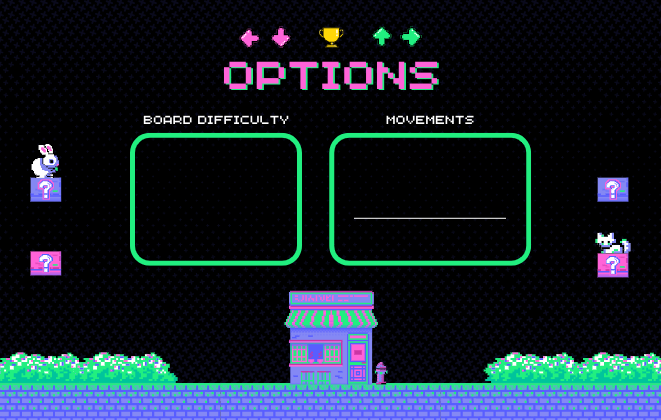
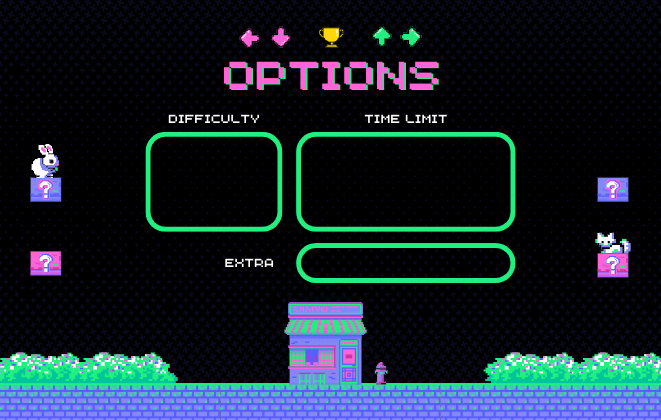
itemstatechanged for time restrict in options frame

Changed region(s): [[0.1815, 0.2476, 0.8169, 0.9286]]

diff --git a/src/OptionsPage.java b/src/OptionsPage.java
@@ -39,8 +39,9 @@ public class OptionsPage extends javax.swing.JFrame {
 
         btGrpRestrict = new javax.swing.ButtonGroup();
         difficulty = new javax.swing.ButtonGroup();
-        MovementRestrict = new javax.swing.JRadioButton();
-        MovementFree = new javax.swing.JRadioButton();
+        timeGrp = new javax.swing.ButtonGroup();
+        yesTime = new javax.swing.JRadioButton();
+        noTime = new javax.swing.JRadioButton();
         BombTilesEnable = new javax.swing.JCheckBox();
         jPanel2 = new javax.swing.JPanel();
         Easy = new javax.swing.JRadioButton();
@@ -48,26 +49,39 @@ public class OptionsPage extends javax.swing.JFrame {
         Difficult = new javax.swing.JRadioButton();
         ok = new javax.swing.JButton();
         exit1 = new javax.swing.JButton();
+        oneMin = new javax.swing.JRadioButton();
+        threeMin = new javax.swing.JRadioButton();
+        fiveMin = new javax.swing.JRadioButton();
         jDesktopPane1 = new javax.swing.JDesktopPane();
-        MovementLabel = new javax.swing.JLabel();
+        MovementLabel2 = new javax.swing.JLabel();
         MovementLabel1 = new javax.swing.JLabel();
         jLabel2 = new javax.swing.JLabel();
 
         setDefaultCloseOperation(javax.swing.WindowConstants.EXIT_ON_CLOSE);
         getContentPane().setLayout(new org.netbeans.lib.awtextra.AbsoluteLayout());
 
-        btGrpRestrict.add(MovementRestrict);
-        MovementRestrict.setFont(new java.awt.Font("Segoe UI", 0, 13)); // NOI18N
-        MovementRestrict.setForeground(new java.awt.Color(255, 255, 255));
-        MovementRestrict.setText("Yes");
-        getContentPane().add(MovementRestrict, new org.netbeans.lib.awtextra.AbsoluteConstraints(350, 190, -1, -1));
+        btGrpRestrict.add(yesTime);
+        yesTime.setFont(new java.awt.Font("Segoe UI", 0, 13)); // NOI18N
+        yesTime.setForeground(new java.awt.Color(255, 255, 255));
+        yesTime.setText("Yes");
+        yesTime.addItemListener(new java.awt.event.ItemListener() {
+            public void itemStateChanged(java.awt.event.ItemEvent evt) {
+                timeRestrictItemStateChanged(evt);
+            }
+        });
+        yesTime.addActionListener(new java.awt.event.ActionListener() {
+            public void actionPerformed(java.awt.event.ActionEvent evt) {
+                yesTimeActionPerformed(evt);
+            }
+        });
+        getContentPane().add(yesTime, new org.netbeans.lib.awtextra.AbsoluteConstraints(400, 150, -1, -1));
 
-        btGrpRestrict.add(MovementFree);
-        MovementFree.setFont(new java.awt.Font("Segoe UI", 0, 13)); // NOI18N
-        MovementFree.setForeground(new java.awt.Color(255, 255, 255));
-        MovementFree.setSelected(true);
-        MovementFree.setText("No");
-        getContentPane().add(MovementFree, new org.netbeans.lib.awtextra.AbsoluteConstraints(400, 190, 51, -1));
+        btGrpRestrict.add(noTime);
+        noTime.setFont(new java.awt.Font("Segoe UI", 0, 13)); // NOI18N
+        noTime.setForeground(new java.awt.Color(255, 255, 255));
+        noTime.setSelected(true);
+        noTime.setText("No");
+        getContentPane().add(noTime, new org.netbeans.lib.awtextra.AbsoluteConstraints(450, 150, 51, -1));
 
         BombTilesEnable.setFont(new java.awt.Font("Segoe UI", 0, 13)); // NOI18N
         BombTilesEnable.setForeground(new java.awt.Color(255, 255, 255));
@@ -77,7 +91,7 @@ public class OptionsPage extends javax.swing.JFrame {
                 BombTilesEnableActionPerformed(evt);
             }
         });
-        getContentPane().add(BombTilesEnable, new org.netbeans.lib.awtextra.AbsoluteConstraints(350, 230, -1, -1));
+        getContentPane().add(BombTilesEnable, new org.netbeans.lib.awtextra.AbsoluteConstraints(320, 240, -1, 50));
 
         jPanel2.setBackground(new java.awt.Color(0, 0, 0));
         jPanel2.setForeground(new java.awt.Color(255, 255, 255));
@@ -128,12 +142,12 @@ public class OptionsPage extends javax.swing.JFrame {
                     .addComponent(Easy)
                     .addComponent(Difficult)
                     .addComponent(Average))
-                .addContainerGap(53, Short.MAX_VALUE))
+                .addContainerGap(19, Short.MAX_VALUE))
         );
         jPanel2Layout.setVerticalGroup(
             jPanel2Layout.createParallelGroup(javax.swing.GroupLayout.Alignment.LEADING)
             .addGroup(jPanel2Layout.createSequentialGroup()
-                .addContainerGap(18, Short.MAX_VALUE)
+                .addContainerGap(javax.swing.GroupLayout.DEFAULT_SIZE, Short.MAX_VALUE)
                 .addComponent(Easy)
                 .addPreferredGap(javax.swing.LayoutStyle.ComponentPlacement.RELATED)
                 .addComponent(Average)
@@ -141,7 +155,7 @@ public class OptionsPage extends javax.swing.JFrame {
                 .addComponent(Difficult))
         );
 
-        getContentPane().add(jPanel2, new org.netbeans.lib.awtextra.AbsoluteConstraints(150, 150, 130, 90));
+        getContentPane().add(jPanel2, new org.netbeans.lib.awtextra.AbsoluteConstraints(160, 140, 100, -1));
 
         ok.setBackground(new java.awt.Color(0, 255, 153));
         ok.setFont(new java.awt.Font("Arial Black", 0, 13)); // NOI18N
@@ -169,19 +183,49 @@ public class OptionsPage extends javax.swing.JFrame {
             }
         });
         getContentPane().add(exit1, new org.netbeans.lib.awtextra.AbsoluteConstraints(440, 310, 100, 30));
+
+        timeGrp.add(oneMin);
+        oneMin.setForeground(new java.awt.Color(255, 255, 255));
+        oneMin.setText("1 min");
+        oneMin.addActionListener(new java.awt.event.ActionListener() {
+            public void actionPerformed(java.awt.event.ActionEvent evt) {
+                oneMinActionPerformed(evt);
+            }
+        });
+        getContentPane().add(oneMin, new org.netbeans.lib.awtextra.AbsoluteConstraints(310, 200, -1, -1));
+
+        timeGrp.add(threeMin);
+        threeMin.setForeground(new java.awt.Color(255, 255, 255));
+        threeMin.setText("3 mins");
+        threeMin.addActionListener(new java.awt.event.ActionListener() {
+            public void actionPerformed(java.awt.event.ActionEvent evt) {
+                threeMinActionPerformed(evt);
+            }
+        });
+        getContentPane().add(threeMin, new org.netbeans.lib.awtextra.AbsoluteConstraints(370, 200, -1, -1));
+
+        timeGrp.add(fiveMin);
+        fiveMin.setForeground(new java.awt.Color(255, 255, 255));
+        fiveMin.setText("5 mins");
+        fiveMin.addActionListener(new java.awt.event.ActionListener() {
+            public void actionPerformed(java.awt.event.ActionEvent evt) {
+                fiveMinActionPerformed(evt);
+            }
+        });
+        getContentPane().add(fiveMin, new org.netbeans.lib.awtextra.AbsoluteConstraints(440, 200, -1, -1));
         getContentPane().add(jDesktopPane1, new org.netbeans.lib.awtextra.AbsoluteConstraints(530, 260, -1, -1));
 
-        MovementLabel.setFont(new java.awt.Font("Segoe UI", 0, 13)); // NOI18N
-        MovementLabel.setForeground(new java.awt.Color(255, 255, 255));
-        MovementLabel.setText("movements?");
-        MovementLabel.setHorizontalTextPosition(javax.swing.SwingConstants.LEADING);
-        getContentPane().add(MovementLabel, new org.netbeans.lib.awtextra.AbsoluteConstraints(350, 170, 160, 20));
+        MovementLabel2.setFont(new java.awt.Font("Segoe UI", 0, 13)); // NOI18N
+        MovementLabel2.setForeground(new java.awt.Color(255, 255, 255));
+        MovementLabel2.setText("How long?");
+        MovementLabel2.setHorizontalTextPosition(javax.swing.SwingConstants.LEADING);
+        getContentPane().add(MovementLabel2, new org.netbeans.lib.awtextra.AbsoluteConstraints(310, 160, 160, 50));
 
         MovementLabel1.setFont(new java.awt.Font("Segoe UI", 0, 13)); // NOI18N
         MovementLabel1.setForeground(new java.awt.Color(255, 255, 255));
-        MovementLabel1.setText("Restrict number of ");
+        MovementLabel1.setText("Restrict time?");
         MovementLabel1.setHorizontalTextPosition(javax.swing.SwingConstants.LEADING);
-        getContentPane().add(MovementLabel1, new org.netbeans.lib.awtextra.AbsoluteConstraints(350, 150, 160, 20));
+        getContentPane().add(MovementLabel1, new org.netbeans.lib.awtextra.AbsoluteConstraints(310, 150, 160, 20));
 
         jLabel2.setIcon(new javax.swing.ImageIcon(getClass().getResource("/optBG.png"))); // NOI18N
         getContentPane().add(jLabel2, new org.netbeans.lib.awtextra.AbsoluteConstraints(0, 0, -1, 420));
@@ -244,6 +288,35 @@ public class OptionsPage extends javax.swing.JFrame {
         // TODO add your handling code here:
 
     }//GEN-LAST:event_okMouseClicked
+
+    private void oneMinActionPerformed(java.awt.event.ActionEvent evt) {//GEN-FIRST:event_oneMinActionPerformed
+        // TODO add your handling code here:
+    }//GEN-LAST:event_oneMinActionPerformed
+
+    private void threeMinActionPerformed(java.awt.event.ActionEvent evt) {//GEN-FIRST:event_threeMinActionPerformed
+        // TODO add your handling code here:
+    }//GEN-LAST:event_threeMinActionPerformed
+
+    private void fiveMinActionPerformed(java.awt.event.ActionEvent evt) {//GEN-FIRST:event_fiveMinActionPerformed
+        // TODO add your handling code here:
+    }//GEN-LAST:event_fiveMinActionPerformed
+
+    private void yesTimeActionPerformed(java.awt.event.ActionEvent evt) {//GEN-FIRST:event_yesTimeActionPerformed
+        // TODO add your handling code here:
+    }//GEN-LAST:event_yesTimeActionPerformed
+
+    private void timeRestrictItemStateChanged(java.awt.event.ItemEvent evt) {//GEN-FIRST:event_timeRestrictItemStateChanged
+        int timeRestrictChoice = evt.getStateChange();
+        
+        if (evt.getSource() == noTime) {
+            if (timeRestrictChoice == 1) {
+                oneMin.setEnabled(false);
+                threeMin.setEnabled(false);
+                fiveMin.setEnabled(false);
+            }
+        }
+       
+    }//GEN-LAST:event_timeRestrictItemStateChanged
     
     
     /**
@@ -291,16 +364,20 @@ public class OptionsPage extends javax.swing.JFrame {
     private javax.swing.JCheckBox BombTilesEnable;
     private javax.swing.JRadioButton Difficult;
     private javax.swing.JRadioButton Easy;
-    private javax.swing.JRadioButton MovementFree;
-    private javax.swing.JLabel MovementLabel;
     private javax.swing.JLabel MovementLabel1;
-    private javax.swing.JRadioButton MovementRestrict;
+    private javax.swing.JLabel MovementLabel2;
     private javax.swing.ButtonGroup btGrpRestrict;
     private javax.swing.ButtonGroup difficulty;
     private javax.swing.JButton exit1;
+    private javax.swing.JRadioButton fiveMin;
     private javax.swing.JDesktopPane jDesktopPane1;
     private javax.swing.JLabel jLabel2;
     private javax.swing.JPanel jPanel2;
+    private javax.swing.JRadioButton noTime;
     private javax.swing.JButton ok;
+    private javax.swing.JRadioButton oneMin;
+    private javax.swing.JRadioButton threeMin;
+    private javax.swing.ButtonGroup timeGrp;
+    private javax.swing.JRadioButton yesTime;
     // End of variables declaration//GEN-END:variables
 }

diff --git a/src/MainGame.java b/src/MainGame.java
@@ -259,7 +259,6 @@ public class MainGame extends javax.swing.JFrame implements MouseListener{
 
         MainGame = new javax.swing.JPanel();
         Stats = new javax.swing.JPanel();
-        NumClickLabel = new javax.swing.JLabel();
         NumCorrMatchLabel = new javax.swing.JLabel();
         NumIncorrMatchLabel = new javax.swing.JLabel();
         NumCorrMatch = new javax.swing.JLabel();
@@ -268,6 +267,8 @@ public class MainGame extends javax.swing.JFrame implements MouseListener{
         Time = new javax.swing.JLabel();
         endGame = new javax.swing.JButton();
         TimeLabel = new javax.swing.JLabel();
+        NumClickLabel = new javax.swing.JLabel();
+        jLabel1 = new javax.swing.JLabel();
         jMenuBar1 = new javax.swing.JMenuBar();
         Game = new javax.swing.JMenu();
         NewGame = new javax.swing.JMenuItem();
@@ -283,10 +284,6 @@ public class MainGame extends javax.swing.JFrame implements MouseListener{
         MainGame.setForeground(new java.awt.Color(255, 102, 102));
         MainGame.setLayout(new java.awt.GridLayout(5, 5));
         getContentPane().add(MainGame, new org.netbeans.lib.awtextra.AbsoluteConstraints(0, 0, 670, 510));
-
-        NumClickLabel.setHorizontalAlignment(javax.swing.SwingConstants.CENTER);
-        NumClickLabel.setText("Number of Attempted Matches:");
-        NumClickLabel.setHorizontalTextPosition(javax.swing.SwingConstants.CENTER);
 
         NumCorrMatchLabel.setHorizontalAlignment(javax.swing.SwingConstants.CENTER);
         NumCorrMatchLabel.setText("Number of Correct Matches:");
@@ -327,14 +324,13 @@ public class MainGame extends javax.swing.JFrame implements MouseListener{
         StatsLayout.setHorizontalGroup(
             StatsLayout.createParallelGroup(javax.swing.GroupLayout.Alignment.LEADING)
             .addGroup(StatsLayout.createSequentialGroup()
-                .addGap(31, 31, 31)
+                .addGap(36, 36, 36)
                 .addGroup(StatsLayout.createParallelGroup(javax.swing.GroupLayout.Alignment.CENTER)
                     .addComponent(NumCorrMatchLabel)
                     .addComponent(NumCorrMatch, javax.swing.GroupLayout.PREFERRED_SIZE, 62, javax.swing.GroupLayout.PREFERRED_SIZE)
                     .addComponent(NumIncorrMatchLabel)
                     .addComponent(NumIncorrMatch, javax.swing.GroupLayout.PREFERRED_SIZE, 55, javax.swing.GroupLayout.PREFERRED_SIZE)
                     .addComponent(endGame, javax.swing.GroupLayout.PREFERRED_SIZE, 140, javax.swing.GroupLayout.PREFERRED_SIZE)
-                    .addComponent(NumClickLabel)
                     .addComponent(NumClick, javax.swing.GroupLayout.PREFERRED_SIZE, 50, javax.swing.GroupLayout.PREFERRED_SIZE)
                     .addComponent(Time, javax.swing.GroupLayout.PREFERRED_SIZE, 72, javax.swing.GroupLayout.PREFERRED_SIZE))
                 .addContainerGap(88, Short.MAX_VALUE))
@@ -343,9 +339,7 @@ public class MainGame extends javax.swing.JFrame implements MouseListener{
             StatsLayout.createParallelGroup(javax.swing.GroupLayout.Alignment.LEADING)
             .addGroup(StatsLayout.createSequentialGroup()
                 .addComponent(Time, javax.swing.GroupLayout.PREFERRED_SIZE, 36, javax.swing.GroupLayout.PREFERRED_SIZE)
-                .addGap(24, 24, 24)
-                .addComponent(NumClickLabel)
-                .addPreferredGap(javax.swing.LayoutStyle.ComponentPlacement.RELATED)
+                .addGap(47, 47, 47)
                 .addComponent(NumClick, javax.swing.GroupLayout.PREFERRED_SIZE, 36, javax.swing.GroupLayout.PREFERRED_SIZE)
                 .addGap(18, 18, 18)
                 .addComponent(NumCorrMatchLabel)
@@ -366,6 +360,14 @@ public class MainGame extends javax.swing.JFrame implements MouseListener{
         TimeLabel.setText("Elapsed Time:");
         TimeLabel.setHorizontalTextPosition(javax.swing.SwingConstants.CENTER);
         getContentPane().add(TimeLabel, new org.netbeans.lib.awtextra.AbsoluteConstraints(760, 30, -1, -1));
+
+        NumClickLabel.setHorizontalAlignment(javax.swing.SwingConstants.CENTER);
+        NumClickLabel.setText("Number of Attempted Matches:");
+        NumClickLabel.setHorizontalTextPosition(javax.swing.SwingConstants.CENTER);
+        getContentPane().add(NumClickLabel, new org.netbeans.lib.awtextra.AbsoluteConstraints(0, 0, -1, -1));
+
+        jLabel1.setIcon(new javax.swing.ImageIcon(getClass().getResource("/mainBG.png"))); // NOI18N
+        getContentPane().add(jLabel1, new org.netbeans.lib.awtextra.AbsoluteConstraints(0, 0, 920, 510));
 
         Game.setText("Game");
 
@@ -503,6 +505,7 @@ public class MainGame extends javax.swing.JFrame implements MouseListener{
     private javax.swing.JLabel Time;
     private javax.swing.JLabel TimeLabel;
     private javax.swing.JButton endGame;
+    private javax.swing.JLabel jLabel1;
     private javax.swing.JMenuBar jMenuBar1;
     // End of variables declaration//GEN-END:variables
 
